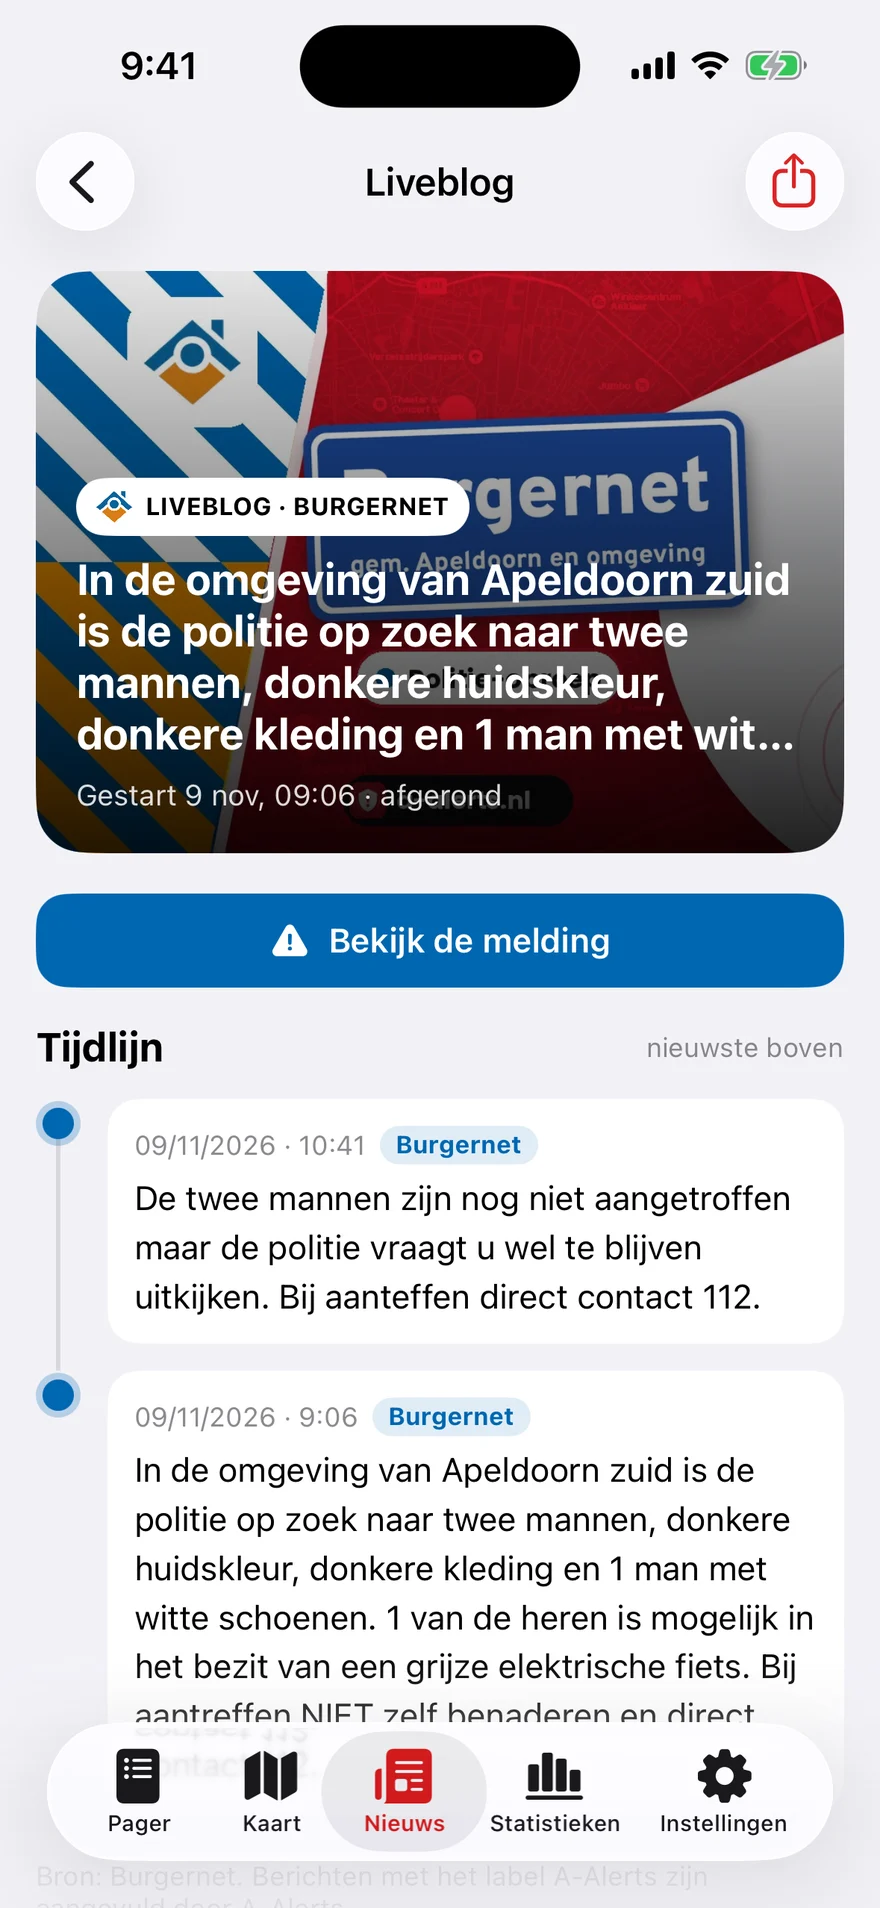
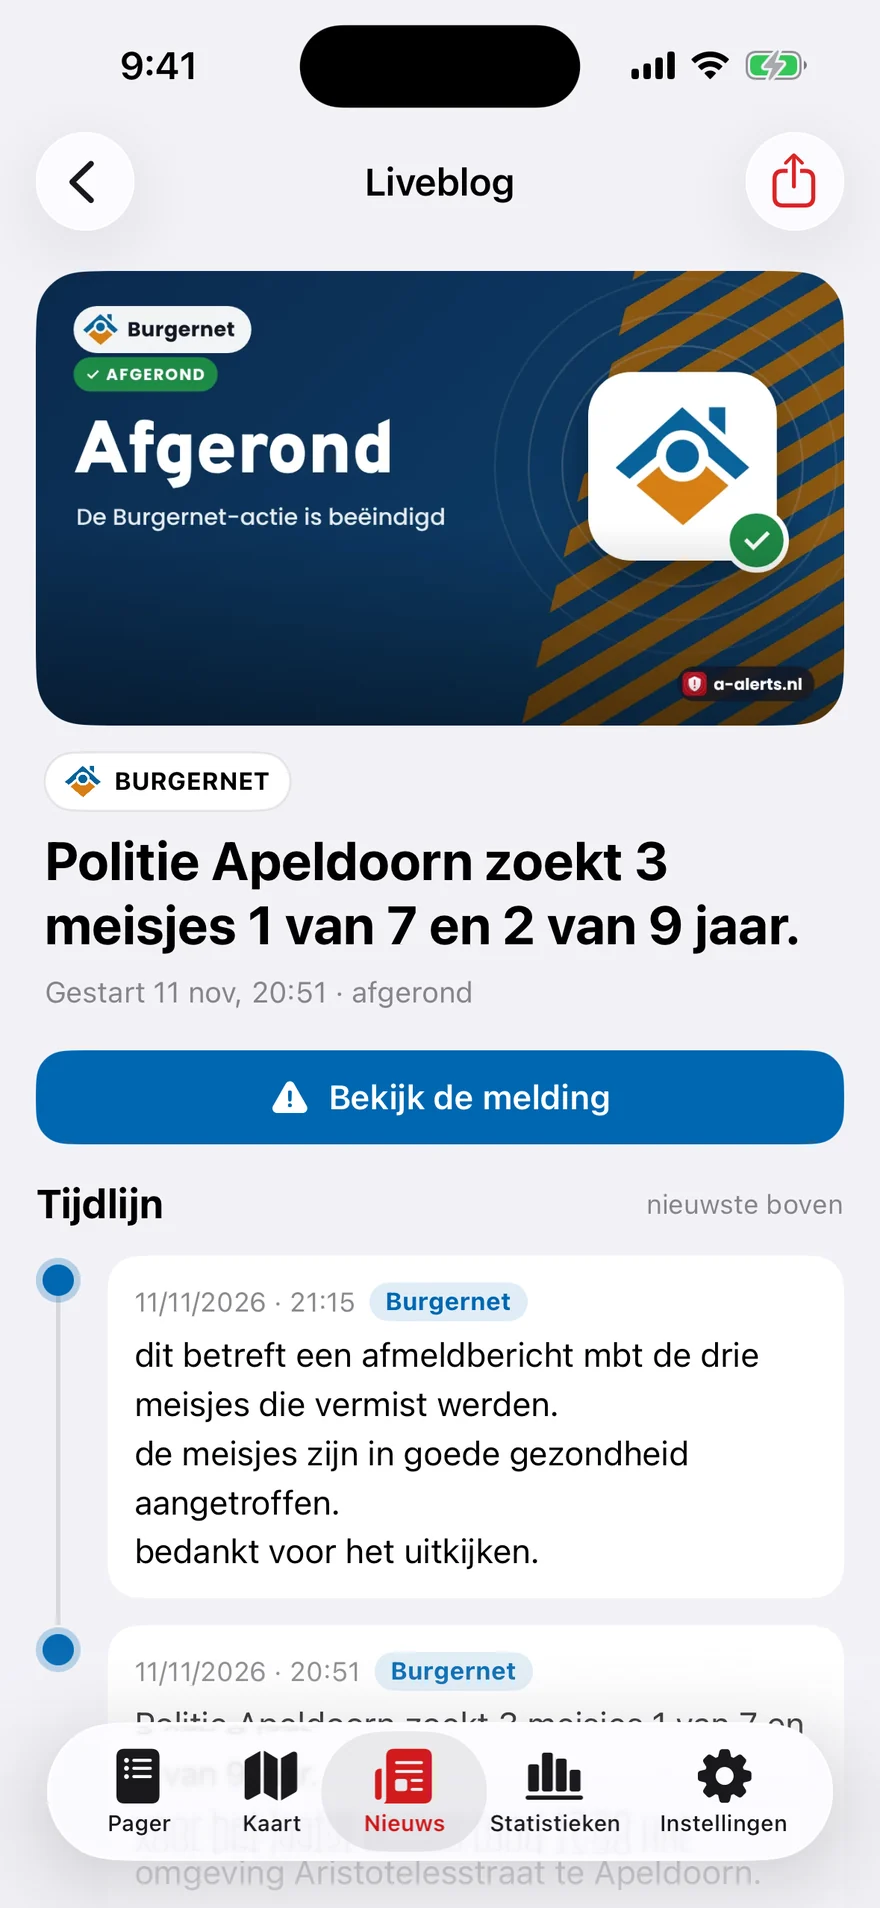
Website: nieuwe schermafbeeldingen van Nieuws en Liveblog uit de huidige app
Claude-Session: https://claude.ai/code/session_01CXMY93tUivvJNkpfMAQTgP

diff --git a/website/index.html b/website/index.html
@@ -117,7 +117,7 @@
           <div class="glass" id="featureGlass">
             <img class="is-on" data-screen="pager" src="assets/img/screen-pager.webp?v=58" alt="" loading="lazy">
             <img data-screen="map" src="assets/img/screen-map.webp?v=58" alt="" loading="lazy">
-            <img data-screen="nieuws" src="assets/img/screen-nieuws.webp?v=58" alt="" loading="lazy">
+            <img data-screen="nieuws" src="assets/img/screen-nieuws.webp?v=59" alt="" loading="lazy">
             <img data-screen="detail" src="assets/img/screen-detail.webp?v=58" alt="" loading="lazy">
             <img data-screen="meteo" src="assets/img/screen-meteo.webp?v=58" alt="" loading="lazy">
             <img data-screen="notif" src="assets/img/screen-lock.webp" alt="" loading="lazy">
